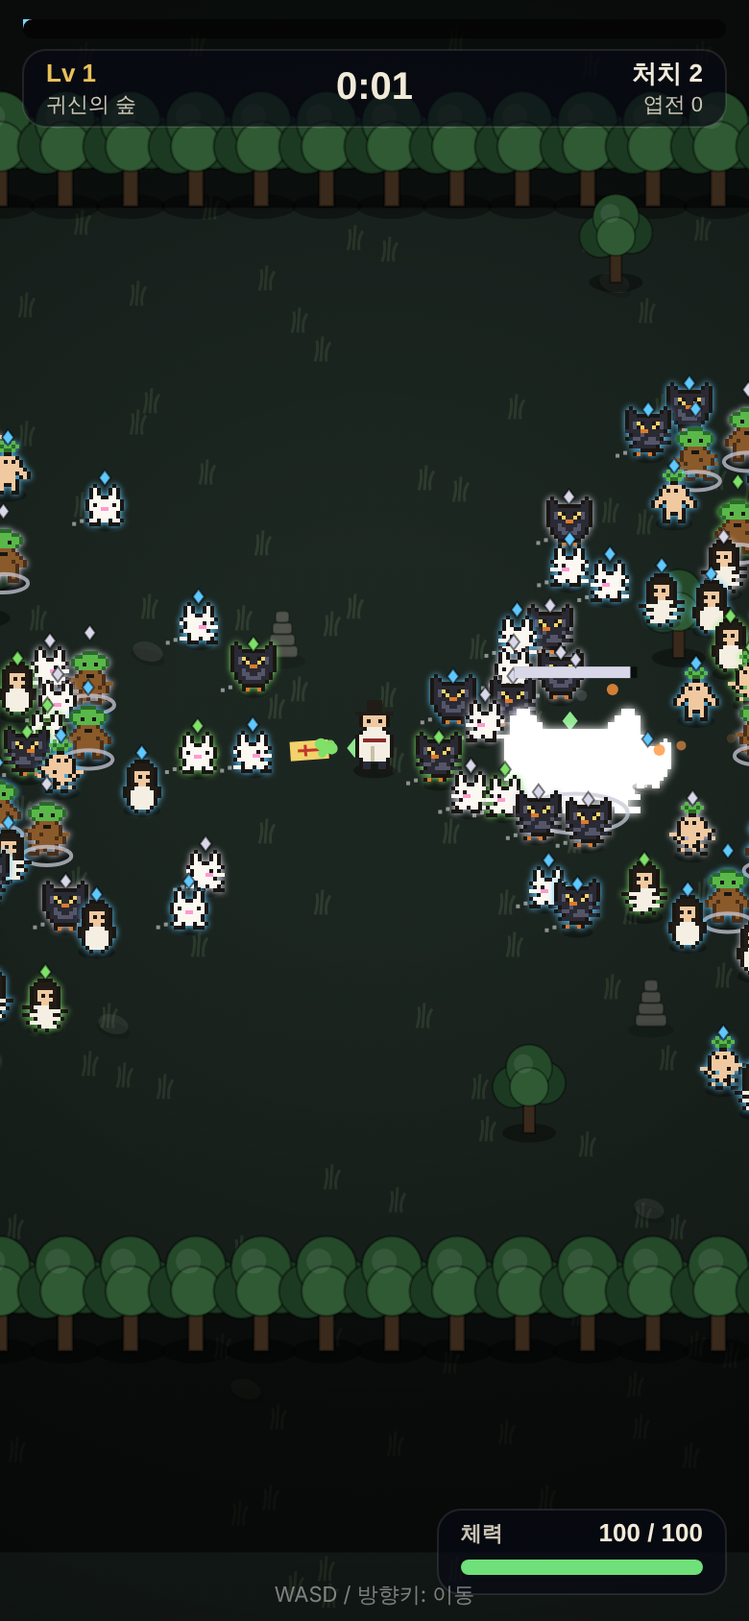
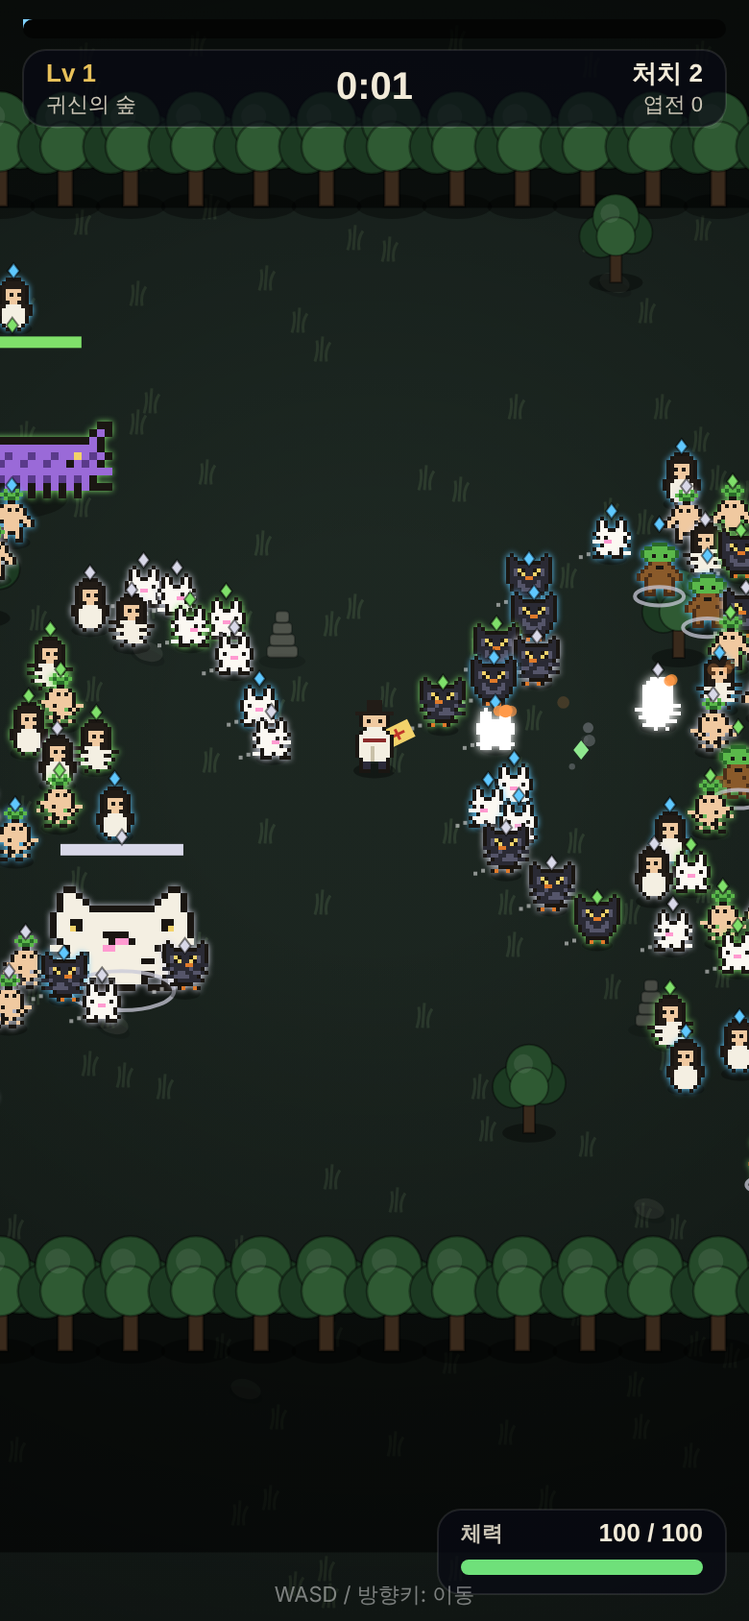
밤의 퇴마사 M4②: 두 고리 상성(빛→어둠→땅→번개→빛, 고리 간 중립)·빛/어둠 무기 6·진화 48종 재생성·뽑기 풀 해금
- 빛: 처치 시 체력 +1 / 어둠: 피해 3% 흡혈 / 땅(예정): 경직
- 같은 타입 쌍은 고리 안에서만, 사원소는 고리별, 없는 무기는 건너뜀
- unlock:4 무기·진화는 안개 늪 클리어 후 뽑기 풀

Claude-Session: https://claude.ai/code/session_01RmJvEQYZMU41pMZMsu4AKq

Changed region(s): [[0.5231, 0.2156, 1.0, 0.7393], [0.0, 0.2464, 0.4615, 0.6469], [0.0, 0.154, 0.1231, 0.2156]]

diff --git a/games/night-exorcist/index.html b/games/night-exorcist/index.html
@@ -39,7 +39,7 @@
   .tabs { display:flex; gap:6px; margin-bottom:12px; } .tabs button { flex:1; min-height:40px; font-size:13px; padding:0 4px; } .tabs button.on { background:rgba(232,193,90,.22); }
   .grid { display:grid; grid-template-columns:repeat(4,1fr); gap:8px; } .grid .w { background:rgba(255,255,255,.06); border:1px solid rgba(255,255,255,.12); border-radius:12px; padding:8px 4px; text-align:center; font-size:12px; color:#f1ead8; min-height:72px; box-shadow:none; font-weight:500; }
   .grid .w.in { border-color:#e8c15a; background:rgba(232,193,90,.18); } .grid .w.off { opacity:.35; } .grid .w small { display:block; font-size:10px; color:#c9c3b4; margin-top:2px; } .grid .w canvas { width:28px; height:28px; display:block; margin:0 auto 2px; }
-  .el-fire { color:#ff7a4a } .el-water { color:#5fc8ff } .el-wood { color:#7fe06a } .el-metal { color:#d8d8e8 } .el-none { color:#c9c3b4 }
+  .el-fire { color:#ff7a4a } .el-water { color:#5fc8ff } .el-wood { color:#7fe06a } .el-metal { color:#d8d8e8 } .el-light { color:#fff2b8 } .el-dark { color:#a070f0 } .el-earth { color:#d9a066 } .el-thunder { color:#ffd23a } .el-none { color:#c9c3b4 }
   #shrine { max-height:88vh; overflow-y:auto; } .big.sm { min-height:44px; font-size:15px; margin-top:8px; }
   .rank { font-size:13px; padding:6px 0; border-bottom:1px solid rgba(255,255,255,.08); display:flex; justify-content:space-between; }
   @media (prefers-reduced-motion: reduce) { .panel { transition:none; } }
@@ -132,7 +132,7 @@ const nStages = () => STAGES_LIVE.length;
 const ELITE_AT = [90, 180, 270, 390, 480];   // 정예 등장 시각
 const CHEST = [{ g:'일반', n:1, p:.6, col:'#c9c3b4' }, { g:'레어', n:3, p:.3, col:'#7fd1ff' }, { g:'에픽', n:5, p:.1, col:'#d08cff' }];
 const ARMOR_SPD = { none:1, light:1.12, heavy:.88 };   // 방어구 타입별 이속 편차
-const EL_COL = { fire:'#ff7a4a', water:'#5fc8ff', wood:'#7fe06a', metal:'#d8d8e8', none:'#f1ead8' };
+const EL_COL = { fire:'#ff7a4a', water:'#5fc8ff', wood:'#7fe06a', metal:'#d8d8e8', light:'#fff2b8', dark:'#a070f0', earth:'#d9a066', thunder:'#ffd23a', none:'#f1ead8' };
 const power = r => 1 + C.META_G * (1 - Math.pow(C.META_D, r));
 
 // ───────── 메타 세이브 ─────────
@@ -214,8 +214,11 @@ const ENEMY = {
   yaksha:     { name:'야차왕',   hp:C.BOSS2_HP * 1.2, spd:76, r:38, xp:140, boss:true, el:'metal', armor:'heavy', patterns:['dash','pool'],  spr:'yaksha',  sc:2.0 },
 };
 // 무기 12종 = 속성 4(화·수·목·금) × 타입 3(throw 투척·melee 근접·aura 오라). 상성: 수→화→금→목→수 유리 ×1.5 / 불리 ×0.6, 투척↔light·근접↔heavy·오라↔none
-const EL_NAME = { fire:'화', water:'수', wood:'목', metal:'금' }, TYPE_NAME = { throw:'투척', melee:'근접', aura:'오라' };
-const BEATS = { water:'fire', fire:'metal', metal:'wood', wood:'water' };
+const EL_NAME = { fire:'화', water:'수', wood:'목', metal:'금', light:'빛', dark:'어둠', earth:'땅', thunder:'번개' }, TYPE_NAME = { throw:'투척', melee:'근접', aura:'오라' };
+// 두 고리: A 수→화→금→목→수 · B 빛→어둠→땅→번개→빛. 고리 사이는 중립
+const BEATS = { water:'fire', fire:'metal', metal:'wood', wood:'water', light:'dark', dark:'earth', earth:'thunder', thunder:'light' };
+const LOOPS = [['fire', 'water', 'wood', 'metal'], ['light', 'dark', 'earth', 'thunder']];
+const loopOf = el => LOOPS.findIndex(l => l.includes(el));
 const TYPE_VS = { throw:{ light:1.5, heavy:.6, none:1 }, melee:{ heavy:1.5, none:.6, light:1 }, aura:{ none:1.5, light:.6, heavy:1 } };
 const WEAPONS = [
   { id:'talisman', el:'fire',  type:'throw', name:'부적',     desc:'가장 가까운 요괴에게 날아가 꿰뚫고 불을 붙인다', cd:.75, dmg:11, spd:340, pierce:1, max:5, up:'피해 +25% · 관통 +1' },
@@ -230,6 +233,13 @@ const WEAPONS = [
   { id:'coin',     el:'metal', type:'throw', name:'엽전표창', desc:'빠르게 날아가 튕겨 나간다',                   cd:.6, dmg:8, spd:460, pierce:1, max:5, up:'피해 +25% · 관통 +1' },
   { id:'sickle',   el:'metal', type:'melee', name:'낫',       desc:'앞을 깊게 베고 밀쳐낸다',                    cd:1.3, dmg:18, arc:1.3, range:70, max:5, up:'피해 +25% · 범위 +12%' },
   { id:'bell',     el:'metal', type:'aura',  name:'방울',     desc:'주변 요괴를 계속 흔들어 느리게 한다',         cd:.5, dmg:4, range:70, slow:.2, max:5, up:'피해 +25% · 반경 +12%' },
+  // 고리 B — 빛(처치 시 체력 +1) · 어둠(준 피해 3% 흡혈). unlock:4 = 안개 늪 클리어 후 뽑기 풀
+  { id:'moonarrow', el:'light', type:'throw', name:'달빛 화살', desc:'곧은 빛살이 꿰뚫는다. 처치하면 체력 +1', cd:.8, dmg:12, spd:480, pierce:2, max:5, up:'피해 +25% · 관통 +1', unlock:4 },
+  { id:'sunblade',  el:'light', type:'melee', name:'햇살 검',   desc:'앞을 환하게 가른다. 처치하면 체력 +1',   cd:1.1, dmg:13, arc:1.5, range:66, max:5, up:'피해 +25% · 범위 +12%', unlock:4 },
+  { id:'lantern',   el:'light', type:'aura',  name:'등불',      desc:'주변을 밝혀 요괴를 태운다. 처치하면 체력 +1', cd:.5, dmg:4, range:72, max:5, up:'피해 +25% · 반경 +12%', unlock:4 },
+  { id:'shadowknife', el:'dark', type:'throw', name:'그림자 비수', desc:'그림자가 날아가 꿰뚫는다. 피해의 3% 흡혈', cd:.6, dmg:9, spd:420, pierce:1, max:5, up:'피해 +25% · 관통 +1', unlock:4 },
+  { id:'inkbrush',  el:'dark', type:'melee', name:'먹물 붓',    desc:'먹물을 넓게 뿌린다. 피해의 3% 흡혈',      cd:1.2, dmg:14, arc:1.9, range:60, max:5, up:'피해 +25% · 범위 +12%', unlock:4 },
+  { id:'veil',      el:'dark', type:'aura',  name:'칠흑 장막',  desc:'장막 안 요괴를 갉아먹는다. 피해의 3% 흡혈', cd:.5, dmg:4, range:68, slow:.15, max:5, up:'피해 +25% · 반경 +12%', unlock:4 },
   // 중립(무속성·무타입): 상성 ×1 고정, 불리 없음, 진화 문법 제외
   { id:'tiger',    neutral:true, kind:'pet',  name:'종이 호랑이', desc:'종이 호랑이가 곁을 돌며 요괴를 문다 (상성 없음)', cd:.55, dmg:9, orbit:54, max:5, up:'피해 +25% · 호랑이 +1 (3·5단)' },
   { id:'moxa',     neutral:true, kind:'aura', name:'쑥뜸 연기',   desc:'연기 안의 요괴에게 피해, 안에서 처치하면 체력 +2 (상성 없음)', cd:.6, dmg:3, range:62, max:5, up:'피해 +25% · 반경 +12%' },
@@ -253,14 +263,19 @@ const EVO_NAME = {
   'throw:fire+water':'김 서린 부적', 'throw:fire+wood':'불타는 죽창', 'throw:fire+metal':'불 엽전', 'throw:water+wood':'이슬 죽창', 'throw:water+metal':'물결 표창', 'throw:wood+metal':'엽전 죽창',
   'melee:fire+water':'증기 채찍', 'melee:fire+wood':'화목검', 'melee:fire+metal':'달군 낫', 'melee:water+wood':'물먹은 목검', 'melee:water+metal':'물결 낫', 'melee:wood+metal':'목낫',
   'aura:fire+water':'온천 안개', 'aura:fire+wood':'향로 염주', 'aura:fire+metal':'화로 방울', 'aura:water+wood':'안개 염주', 'aura:water+metal':'물방울 종', 'aura:wood+metal':'염주 방울',
-  'fire:all':'삼매진화', 'water:all':'용궁 해일', 'wood:all':'천년 신목', 'metal:all':'만금 종', 'throw:all':'사원소 표창', 'melee:all':'사원소 검', 'aura:all':'사원소 결계' };
-const ELS = ['fire', 'water', 'wood', 'metal'], TYPES = ['throw', 'melee', 'aura'];
+  'fire:all':'삼매진화', 'water:all':'용궁 해일', 'wood:all':'천년 신목', 'metal:all':'만금 종', 'throw:all':'사원소 표창', 'melee:all':'사원소 검', 'aura:all':'사원소 결계',
+  // 고리 B
+  'light:throw+melee':'여명 검', 'light:throw+aura':'달무리', 'light:melee+aura':'햇무리 검', 'dark:throw+melee':'그믐 비수', 'dark:throw+aura':'먹구름', 'dark:melee+aura':'칠흑 붓',
+  'throw:light+dark':'명암 비수', 'melee:light+dark':'음양검', 'aura:light+dark':'일식 장막', 'light:all':'백야', 'dark:all':'칠흑야',
+  'throw:all2':'천지 표창', 'melee:all2':'천지 검', 'aura:all2':'천지 결계' };
+const ELS = ['fire', 'water', 'wood', 'metal', 'light', 'dark', 'earth', 'thunder'], TYPES = ['throw', 'melee', 'aura'];
 const baseOf = (el, type) => WEAPONS.find(w => !w.neutral && w.el === el && w.type === type);
 const EVOS = []; // { id, name, tier, parents:[ids], parts:[base ids], els, types, max:5 }
-for (const el of ELS) for (let i = 0; i < 3; i++) for (let j = i + 1; j < 3; j++) { const a = baseOf(el, TYPES[i]), b = baseOf(el, TYPES[j]); EVOS.push({ id:`e:${el}:${TYPES[i]}+${TYPES[j]}`, name:EVO_NAME[`${el}:${TYPES[i]}+${TYPES[j]}`], tier:2, parents:[a.id, b.id], parts:[a.id, b.id], els:[el], types:[TYPES[i], TYPES[j]], max:5, up:'피해 +25%' }); }
-for (const type of TYPES) for (let i = 0; i < 4; i++) for (let j = i + 1; j < 4; j++) { const a = baseOf(ELS[i], type), b = baseOf(ELS[j], type); EVOS.push({ id:`e:${type}:${ELS[i]}+${ELS[j]}`, name:EVO_NAME[`${type}:${ELS[i]}+${ELS[j]}`], tier:2, parents:[a.id, b.id], parts:[a.id, b.id], els:[ELS[i], ELS[j]], types:[type], max:5, up:'피해 +25%' }); }
-for (const el of ELS) EVOS.push({ id:`e:${el}:all`, name:EVO_NAME[`${el}:all`], tier:3, parents:null, parts:TYPES.map(t => baseOf(el, t).id), els:[el], types:TYPES.slice(), max:5, up:'피해 +25%' });   // 2단(같은 속성) + 남은 타입 Lv5
-for (const type of TYPES) EVOS.push({ id:`e:${type}:all`, name:EVO_NAME[`${type}:all`], tier:3, parents:null, parts:ELS.map(e => baseOf(e, type).id), els:ELS.slice(), types:[type], max:5, up:'피해 +25%' });   // 같은 타입 2단 둘(속성 겹침 없음)
+const evoName = (k, parts) => EVO_NAME[k] || parts.map(p => p.name).join('·');
+for (const el of ELS) for (let i = 0; i < 3; i++) for (let j = i + 1; j < 3; j++) { const a = baseOf(el, TYPES[i]), b = baseOf(el, TYPES[j]); if (!a || !b) continue; EVOS.push({ id:`e:${el}:${TYPES[i]}+${TYPES[j]}`, name:evoName(`${el}:${TYPES[i]}+${TYPES[j]}`, [a, b]), tier:2, parents:[a.id, b.id], parts:[a.id, b.id], els:[el], types:[TYPES[i], TYPES[j]], max:5, up:'피해 +25%', unlock:Math.max(a.unlock || 0, b.unlock || 0) }); }
+for (const type of TYPES) for (const loop of LOOPS) for (let i = 0; i < 4; i++) for (let j = i + 1; j < 4; j++) { const a = baseOf(loop[i], type), b = baseOf(loop[j], type); if (!a || !b) continue; EVOS.push({ id:`e:${type}:${loop[i]}+${loop[j]}`, name:evoName(`${type}:${loop[i]}+${loop[j]}`, [a, b]), tier:2, parents:[a.id, b.id], parts:[a.id, b.id], els:[loop[i], loop[j]], types:[type], max:5, up:'피해 +25%', unlock:Math.max(a.unlock || 0, b.unlock || 0) }); }
+for (const el of ELS) { const ps = TYPES.map(t => baseOf(el, t)); if (ps.some(p => !p)) continue; EVOS.push({ id:`e:${el}:all`, name:evoName(`${el}:all`, ps), tier:3, parents:null, parts:ps.map(p => p.id), els:[el], types:TYPES.slice(), max:5, up:'피해 +25%', unlock:Math.max(...ps.map(p => p.unlock || 0)) }); }   // 2단(같은 속성) + 남은 타입 Lv5
+for (const type of TYPES) for (const [li, loop] of LOOPS.entries()) { const ps = loop.map(e => baseOf(e, type)); if (ps.some(p => !p)) continue; EVOS.push({ id:`e:${type}:all${li ? li + 1 : ''}`, name:evoName(`${type}:all${li ? li + 1 : ''}`, ps), tier:3, parents:null, parts:ps.map(p => p.id), els:loop.slice(), types:[type], max:5, up:'피해 +25%', unlock:Math.max(...ps.map(p => p.unlock || 0)) }); }   // 같은 타입 2단 둘(같은 고리, 속성 겹침 없음)
 const EBY = Object.fromEntries(EVOS.map(e => [e.id, e]));
 const weaponOf = id => WBY[id] || EBY[id];
 const TIER_MUL = { 1:1, 2:1.5, 3:2.2 };
@@ -271,7 +286,7 @@ function evoOptions() {
   for (const e of EVOS) { if (P.w[e.id]) continue;
     if (e.tier === 2) { if (have(e.parents[0]) && have(e.parents[1])) out.push({ e, consume:e.parents }); }
     else if (e.types.length === 3) { const t2 = EVOS.filter(x => x.tier === 2 && x.els.length === 1 && x.els[0] === e.els[0]).find(x => have(x.id)); if (!t2) continue; const rest = e.parts.find(p => !t2.parts.includes(p)); if (have(rest)) out.push({ e, consume:[t2.id, rest] }); }
-    else { const t2s = EVOS.filter(x => x.tier === 2 && x.types.length === 1 && x.types[0] === e.types[0] && have(x.id)); for (let i = 0; i < t2s.length; i++) for (let j = i + 1; j < t2s.length; j++) if (!t2s[i].els.some(el => t2s[j].els.includes(el))) { out.push({ e, consume:[t2s[i].id, t2s[j].id] }); i = j = 99; } } }
+    else { const t2s = EVOS.filter(x => x.tier === 2 && x.types.length === 1 && x.types[0] === e.types[0] && have(x.id) && x.els.every(el => e.els.includes(el))); for (let i = 0; i < t2s.length; i++) for (let j = i + 1; j < t2s.length; j++) if (!t2s[i].els.some(el => t2s[j].els.includes(el))) { out.push({ e, consume:[t2s[i].id, t2s[j].id] }); i = j = 99; } } }
   return out;
 }
 const CHAL_DECK = ['talisman', 'sword', 'bell', 'spear', 'orb', 'sickle'];   // 주간 챌린지 고정 덱
@@ -436,7 +451,11 @@ function hitWith(o, w, dmg, kx, ky, owner = w) { // 상성(owner)·속성 효과
   const af = affinity(owner, o), d = dmg * af;
   if (af > 1.2 && (o.boss || o.elite || Math.random() < .25)) float(o.x, o.y - o.r - 8, '유리 ' + Math.round(d), '#ffd86a', 12); else if (af < .8 && (o.boss || o.elite || Math.random() < .25)) float(o.x, o.y - o.r - 8, '불리 ' + Math.round(d), '#9a9aa8', 11);
   if (w.el === 'fire') o.burn = Math.max(o.burn || 0, 2); else if (w.el === 'water') o.slow = Math.max(o.slow, .8); else if (w.el === 'metal') { kx *= 1.6; ky *= 1.6; }
-  return hurtEnemy(o, d, kx, ky);
+  else if (w.el === 'dark') { const h = Math.min(o.hp, d) * .03; if (h > 0 && S.hp < S.maxhp) S.hp = Math.min(S.maxhp, S.hp + h); }
+  else if (w.el === 'earth') { kx = ky = 0; o.stun = Math.max(o.stun || 0, .4); }
+  const killed = hurtEnemy(o, d, kx, ky);
+  if (killed && w.el === 'light' && S.hp < S.maxhp) { S.hp = Math.min(S.maxhp, S.hp + 1); if (Math.random() < .3) float(P.x, P.y - 30, '+1', '#fff2b8', 11); }
+  return killed;
 }
 function firePart(w, owner, lv, dt) { // 기본 무기 w 의 공격 1회 (owner = w 또는 진화 무기)
   const key = owner.id === w.id ? w.id : owner.id + ':' + w.id;
@@ -672,6 +691,12 @@ function drawIcon(c, ch, sc = 2) { const d = ch.d;
   if (d.id === 'salt') { x.fillStyle = '#c9b48a'; x.beginPath(); x.moveTo(-10, -4); x.quadraticCurveTo(-12, 14, 0, 14); x.quadraticCurveTo(12, 14, 10, -4); x.fill(); x.fillStyle = '#8a7050'; x.fillRect(-7, -8, 14, 5); x.fillStyle = '#fff'; for (const [px, py] of [[-4, 2], [3, 5], [0, 8]]) x.fillRect(px, py, 2, 2); return; }
   if (d.id === 'xp') { x.fillStyle = '#7fe06a'; for (const [px, py] of [[-7, -4], [3, -8], [-2, 4], [8, 2], [-9, 8]]) { x.beginPath(); x.ellipse(px, py, 5, 4, .4, 0, 6.283); x.fill(); } return; }
   if (d.id === 'bag') { x.fillStyle = '#8a5a2a'; x.fillRect(-12, -6, 24, 20); x.fillStyle = '#5a3a1a'; x.fillRect(-12, -6, 24, 5); x.fillStyle = '#f2d26a'; x.fillRect(-6, -14, 5, 10); x.fillRect(2, -16, 5, 12); x.strokeStyle = '#c0362a'; x.lineWidth = 1; x.strokeRect(3, -14, 3, 7); return; }
+  if (d.id === 'moonarrow') { x.rotate(-.8); x.shadowColor = '#fff2b8'; x.shadowBlur = 6; x.fillStyle = '#fff8d8'; x.fillRect(-2, -18, 4, 34); x.beginPath(); x.moveTo(-6, -16); x.lineTo(0, -27); x.lineTo(6, -16); x.fill(); return; }
+  if (d.id === 'sunblade') { x.rotate(-.7); x.shadowColor = '#fff2b8'; x.shadowBlur = 8; x.fillStyle = '#fff8d8'; x.beginPath(); x.moveTo(-3, -22); x.lineTo(3, -22); x.lineTo(4, 8); x.lineTo(-4, 8); x.fill(); x.fillStyle = '#9a7a22'; x.fillRect(-7, 8, 14, 3); x.fillRect(-2, 11, 4, 10); return; }
+  if (d.id === 'lantern') { x.fillStyle = '#5a4a3a'; x.fillRect(-7, -16, 14, 3); x.fillRect(-7, 12, 14, 3); x.fillStyle = '#fff2b8'; x.shadowColor = '#fff2b8'; x.shadowBlur = 10; x.beginPath(); x.moveTo(-7, -13); x.lineTo(7, -13); x.lineTo(9, 12); x.lineTo(-9, 12); x.fill(); x.fillStyle = '#ff9a4a'; x.beginPath(); x.ellipse(0, 2, 3, 6, 0, 0, 6.283); x.fill(); return; }
+  if (d.id === 'shadowknife') { x.rotate(-.6); x.fillStyle = '#2a1a4a'; x.beginPath(); x.moveTo(0, -20); x.lineTo(7, 0); x.lineTo(0, 14); x.lineTo(-7, 0); x.closePath(); x.fill(); x.strokeStyle = '#a070f0'; x.lineWidth = 2; x.stroke(); return; }
+  if (d.id === 'inkbrush') { x.rotate(-.6); x.fillStyle = '#c9a66b'; x.fillRect(-2, -20, 4, 24); x.fillStyle = '#1a1020'; x.beginPath(); x.moveTo(-5, 4); x.lineTo(5, 4); x.lineTo(0, 18); x.fill(); x.fillStyle = '#a070f0'; for (const [px, py] of [[8, 10], [-9, 14], [10, 18]]) { x.beginPath(); x.arc(px, py, 2.5, 0, 6.283); x.fill(); } return; }
+  if (d.id === 'veil') { x.fillStyle = 'rgba(40,20,80,.85)'; x.beginPath(); x.arc(0, 0, 14, 0, 6.283); x.fill(); x.strokeStyle = '#a070f0'; x.lineWidth = 2; x.setLineDash([3, 3]); x.stroke(); x.setLineDash([]); x.fillStyle = '#a070f0'; x.beginPath(); x.arc(-4, -3, 2, 0, 6.283); x.arc(4, -3, 2, 0, 6.283); x.fill(); return; }
   if (d.type === 'throw' && d.id !== 'talisman') { x.fillStyle = ec; if (d.id === 'orb') { x.beginPath(); x.arc(0, 0, 12, 0, 6.283); x.fill(); x.fillStyle = '#fff'; x.beginPath(); x.arc(-4, -4, 4, 0, 6.283); x.fill(); } else if (d.id === 'spear') { x.rotate(-.8); x.fillRect(-2, -18, 4, 34); x.beginPath(); x.moveTo(-5, -16); x.lineTo(0, -26); x.lineTo(5, -16); x.fill(); } else { x.beginPath(); x.arc(0, 0, 12, 0, 6.283); x.fill(); x.fillStyle = '#1a1408'; x.fillRect(-4, -4, 8, 8); x.strokeStyle = '#9a7a22'; x.lineWidth = 2; x.beginPath(); x.arc(0, 0, 12, 0, 6.283); x.stroke(); } return; }
   if (d.type === 'melee' && d.id !== 'sword') { x.rotate(-.7); if (d.id === 'torch') { x.fillStyle = '#6a4a2a'; x.fillRect(-3, -4, 6, 22); x.fillStyle = '#ff7a4a'; x.beginPath(); x.moveTo(-8, -4); x.quadraticCurveTo(0, -26, 8, -4); x.fill(); x.fillStyle = '#ffd86a'; x.beginPath(); x.moveTo(-4, -4); x.quadraticCurveTo(0, -16, 4, -4); x.fill(); } else if (d.id === 'whip') { x.strokeStyle = ec; x.lineWidth = 4; x.beginPath(); x.moveTo(-12, 14); x.quadraticCurveTo(-6, -10, 6, -2); x.quadraticCurveTo(14, 4, 12, -14); x.stroke(); } else { x.strokeStyle = ec; x.lineWidth = 5; x.beginPath(); x.arc(2, -2, 12, 3.6, 6.4); x.stroke(); x.fillStyle = '#6a4a2a'; x.fillRect(-2, 6, 4, 14); } return; }
   if (d.type === 'aura' && d.id !== 'bell') { if (d.id === 'brazier') { x.fillStyle = '#5a4a3a'; x.beginPath(); x.moveTo(-12, 2); x.lineTo(12, 2); x.lineTo(8, 14); x.lineTo(-8, 14); x.fill(); x.fillStyle = '#ff7a4a'; x.beginPath(); x.moveTo(-9, 2); x.quadraticCurveTo(-6, -14, 0, -18); x.quadraticCurveTo(6, -14, 9, 2); x.fill(); x.fillStyle = '#ffd86a'; x.beginPath(); x.moveTo(-4, 2); x.quadraticCurveTo(0, -8, 4, 2); x.fill(); } else if (d.id === 'mist') { x.fillStyle = 'rgba(95,200,255,.5)'; for (const [cx, cy, r] of [[-8, 2, 8], [4, -4, 10], [8, 6, 7]]) { x.beginPath(); x.arc(cx, cy, r, 0, 6.283); x.fill(); } } else { x.strokeStyle = '#8a6a3a'; x.lineWidth = 2; x.beginPath(); x.arc(0, 0, 13, 0, 6.283); x.stroke(); for (let k = 0; k < 8; k++) { x.fillStyle = '#c9a66b'; x.beginPath(); x.arc(Math.cos(k * .785) * 13, Math.sin(k * .785) * 13, 3.5, 0, 6.283); x.fill(); } } return; }
@@ -724,6 +749,8 @@ function draw() {
     if (id === 'talisman') { ctx.fillStyle = '#f2d26a'; ctx.fillRect(-5, -10, 10, 20); ctx.strokeStyle = '#c0362a'; ctx.lineWidth = 1.5; ctx.beginPath(); ctx.moveTo(0, -6); ctx.lineTo(0, 6); ctx.moveTo(-3, -2); ctx.lineTo(3, -2); ctx.stroke(); }
     else if (id === 'orb') { const g = ctx.createRadialGradient(-2, -2, 1, 0, 0, 8); g.addColorStop(0, '#fff'); g.addColorStop(1, '#3a9ad8'); ctx.fillStyle = g; ctx.beginPath(); ctx.arc(0, 0, 8, 0, 6.283); ctx.fill(); }
     else if (id === 'spear') { ctx.fillStyle = '#9ad06a'; ctx.fillRect(-2, -16, 4, 30); ctx.fillStyle = '#e8f0c0'; ctx.beginPath(); ctx.moveTo(-4, -14); ctx.lineTo(0, -24); ctx.lineTo(4, -14); ctx.fill(); }
+    else if (id === 'moonarrow') { ctx.shadowColor = '#fff2b8'; ctx.shadowBlur = 8; ctx.fillStyle = '#fff8d8'; ctx.fillRect(-1.5, -18, 3, 30); ctx.beginPath(); ctx.moveTo(-4, -16); ctx.lineTo(0, -24); ctx.lineTo(4, -16); ctx.fill(); }
+    else if (id === 'shadowknife') { ctx.fillStyle = 'rgba(60,30,110,.9)'; ctx.beginPath(); ctx.moveTo(0, -14); ctx.lineTo(5, 2); ctx.lineTo(0, 10); ctx.lineTo(-5, 2); ctx.closePath(); ctx.fill(); ctx.strokeStyle = '#a070f0'; ctx.lineWidth = 1; ctx.stroke(); }
     else { ctx.fillStyle = '#e8c15a'; ctx.beginPath(); ctx.arc(0, 0, 6, 0, 6.283); ctx.fill(); ctx.fillStyle = '#1a1408'; ctx.fillRect(-2, -2, 4, 4); ctx.strokeStyle = '#9a7a22'; ctx.lineWidth = 1; ctx.stroke(); }
     ctx.restore(); }
   drawPlayer(sx(P.x), sy(P.y), t);
@@ -820,10 +847,10 @@ function renderShrine() {
   else if (shTab === 'deck') { const p = document.createElement('p'); p.className = 'sub'; p.textContent = `출전 덱 ${META.deck.length}/10 — 런 중 3택1은 덱 안에서만 나옵니다. 첫 칸이 시작 무기. 요괴 속성·방어구를 보고 골고루 짜세요.`; b.appendChild(p);
     const g = document.createElement('div'); g.className = 'grid'; for (const w of WEAPONS) { if (META.owned[w.id] == null) continue; const inDeck = META.deck.includes(w.id), el = document.createElement('button'); el.className = 'w' + (inDeck ? ' in' : ''); el.innerHTML = `<canvas width="56" height="56"></canvas>${w.name}<small class="el-${w.el || 'none'}">${wTag(w)}${inDeck ? ' · ' + (META.deck.indexOf(w.id) + 1) + '번' : ''}</small>`; drawIcon(el.querySelector('canvas'), { d:w }, 1.3);
       el.addEventListener('click', () => { if (inDeck) { if (META.deck.length > 1) META.deck = META.deck.filter(x => x !== w.id); else toast('무기는 하나 이상 넣어야 해요'); } else if (META.deck.length < 10) META.deck.push(w.id); else toast('덱은 10개까지'); saveMeta(); renderShrine(); }); g.appendChild(el); } b.appendChild(g);
-    const h = document.createElement('p'); h.className = 'msg'; h.innerHTML = '상성: <span class="el-water">수</span>→<span class="el-fire">화</span>→<span class="el-metal">금</span>→<span class="el-wood">목</span>→<span class="el-water">수</span> (유리 ×1.5 / 불리 ×0.6) · 투척은 가벼운 요괴, 근접은 무거운 요괴, 오라는 보통 요괴에 강함'; b.appendChild(h); }
+    const h = document.createElement('p'); h.className = 'msg'; h.innerHTML = '상성: <span class="el-water">수</span>→<span class="el-fire">화</span>→<span class="el-metal">금</span>→<span class="el-wood">목</span>→<span class="el-water">수</span> · <span class="el-light">빛</span>→<span class="el-dark">어둠</span>→<span class="el-earth">땅</span>→<span class="el-thunder">번개</span>→<span class="el-light">빛</span> (유리 ×1.5 / 불리 ×0.6, 두 고리 사이는 중립) · 투척은 가벼운 요괴, 근접은 무거운 요괴, 오라는 보통 요괴에 강함'; b.appendChild(h); }
   else { const wh = document.createElement('p'); wh.className = 'msg'; wh.innerHTML = `<b style="color:#e8c15a">무기</b> · 기본 12 · 진화 ${META.evo.length}/${EVOS.length} 발견 — Lv5 둘을 합치면 진화`; b.appendChild(wh);
     const wg = document.createElement('div'); wg.className = 'grid'; wg.style.marginBottom = '8px';
-    for (const w of [...WEAPONS, ...EVOS]) { const seen = w.parts ? META.evo.includes(w.id) : META.owned[w.id] != null, el = document.createElement('div'); el.className = 'w' + (seen ? '' : ' off'); el.title = w.parts ? w.parts.map(p => WBY[p].name).join('+') : '';
+    for (const w of [...WEAPONS, ...EVOS]) { const seen = w.parts ? META.evo.includes(w.id) : META.owned[w.id] != null, el = document.createElement('div'); if (w.unlock && META.bestStage < w.unlock && !seen) el.title = `${STAGES[w.unlock - 1].name} 클리어 후`; el.className = 'w' + (seen ? '' : ' off'); el.title = w.parts ? w.parts.map(p => WBY[p].name).join('+') : '';
       el.innerHTML = `<canvas width="56" height="56"></canvas>${seen ? w.name : '???'}<small>${w.parts ? (seen ? w.parts.map(p => WBY[p].name).join('+') : w.tier + '단 · ' + (w.els.length === 1 ? `<span class="el-${w.els[0]}">${EL_NAME[w.els[0]]}</span>` : TYPE_NAME[w.types[0]]) + ' 계열') : `<span class="el-${w.el || 'none'}">${wTag(w)}</span>`}</small>`;
       drawIcon(el.querySelector('canvas'), { d:w }, 1.3); if (!seen) el.querySelector('canvas').style.opacity = .3; wg.appendChild(el); } b.appendChild(wg);
     for (const st of STAGES_LIVE) { const h = document.createElement('p'); h.className = 'msg'; h.innerHTML = `<b style="color:#e8c15a">${st.name}</b> · ${st.els.map(e => `<span class="el-${e}">${EL_NAME[e]}</span>`).join(' ')}`; b.appendChild(h);
@@ -858,7 +885,7 @@ let last = 0, frameMs = [];
 function frame(ts) { let dt = (ts - last) / 1000 || 0; last = ts; if (dt > .1) dt = .1; const t0 = performance.now();
   if (S.mode === 'play') tick(dt); fx(dt); draw(); if (TEST) { frameMs.push(performance.now() - t0); if (frameMs.length > 600) frameMs.shift(); } requestAnimationFrame(frame); }
 requestAnimationFrame(frame);
-if (TEST) window.GAME = { S, P, E, B, G, EB, ZONE, CHESTS, META, WBY, ENEMY, GRIDS, EVOS, EBY, evoOptions, weaponOf, dmgOf, WCD, dropGem, affinity, gacha, openShrine, renderShrine, openChal, CHAL_DECK, TRAIN, trainCost, hitWith, migrate, isoWeek, hashStr, openChest, bossPattern, nearObst, ELITE_AT, C, STAGES, WEAPONS, PASSIVES, tick, startGame, endRun, spawn, kill, levelUp, pick, choices, inputVec, KEY, JOY, frameMs: () => frameMs, enemyHp, hurtEnemy };
+if (TEST) window.GAME = { S, P, E, B, G, EB, ZONE, CHESTS, META, WBY, ENEMY, GRIDS, EVOS, EBY, evoOptions, weaponOf, dmgOf, WCD, dropGem, gachaPool, BEATS, LOOPS, affinity, gacha, openShrine, renderShrine, openChal, CHAL_DECK, TRAIN, trainCost, hitWith, migrate, isoWeek, hashStr, openChest, bossPattern, nearObst, ELITE_AT, C, STAGES, WEAPONS, PASSIVES, tick, startGame, endRun, spawn, kill, levelUp, pick, choices, inputVec, KEY, JOY, frameMs: () => frameMs, enemyHp, hurtEnemy };
 </script>
 </body>
 </html>
